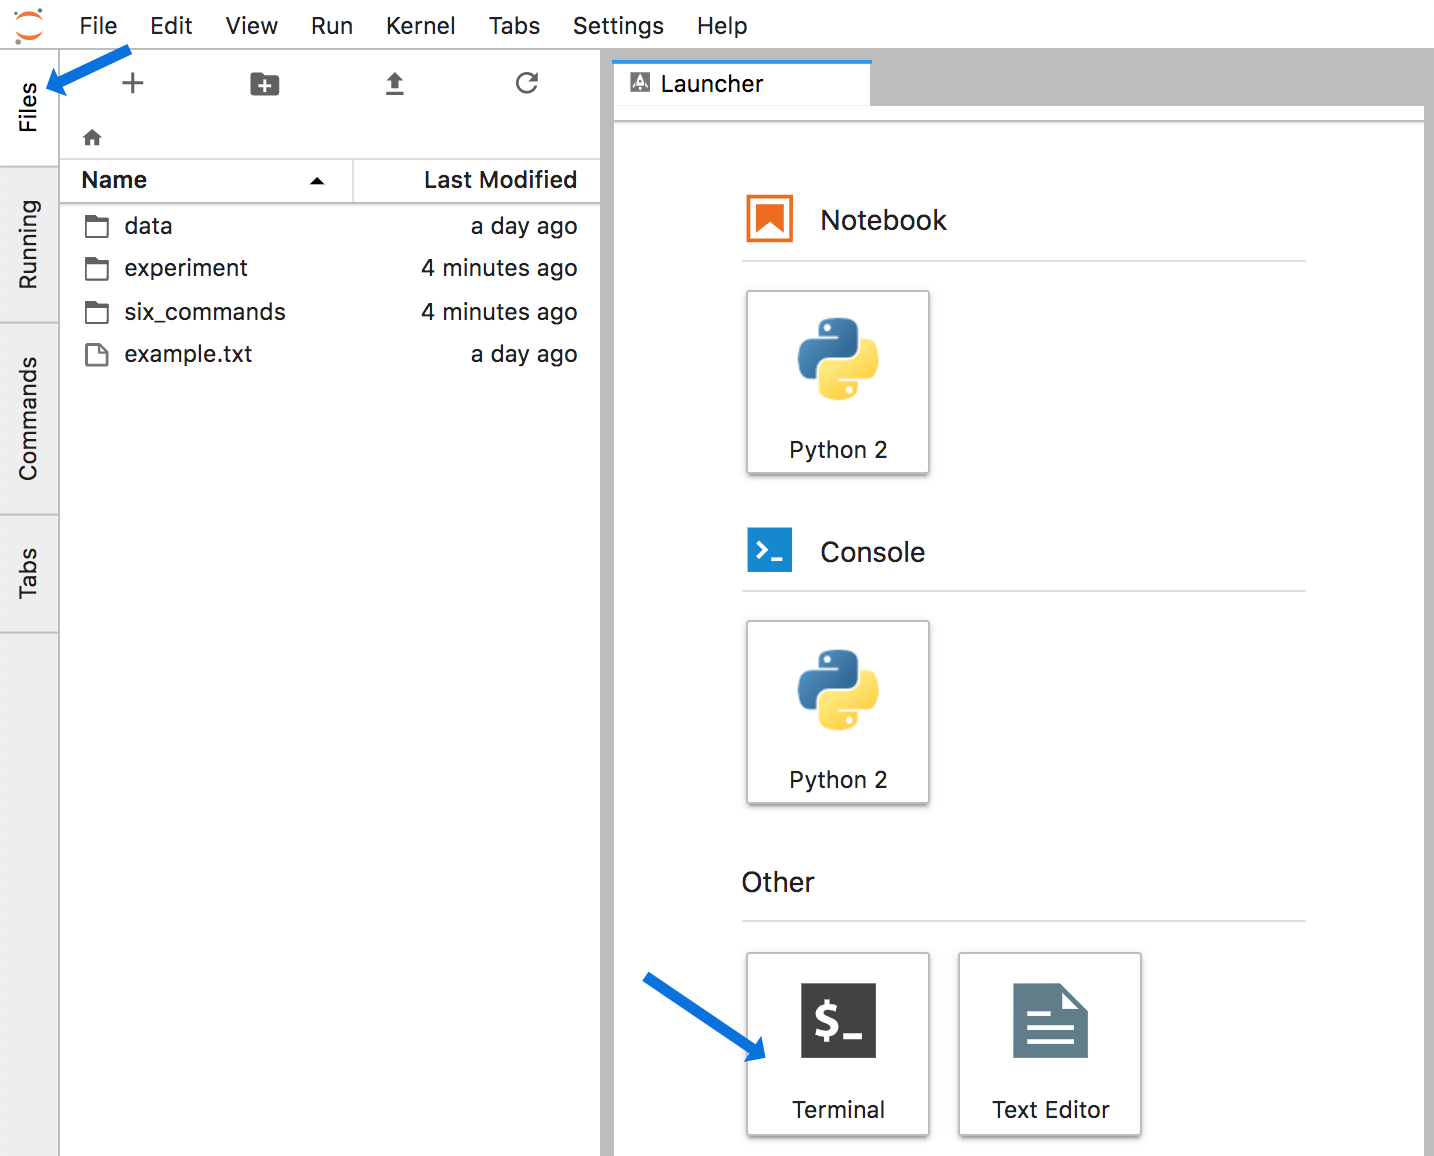
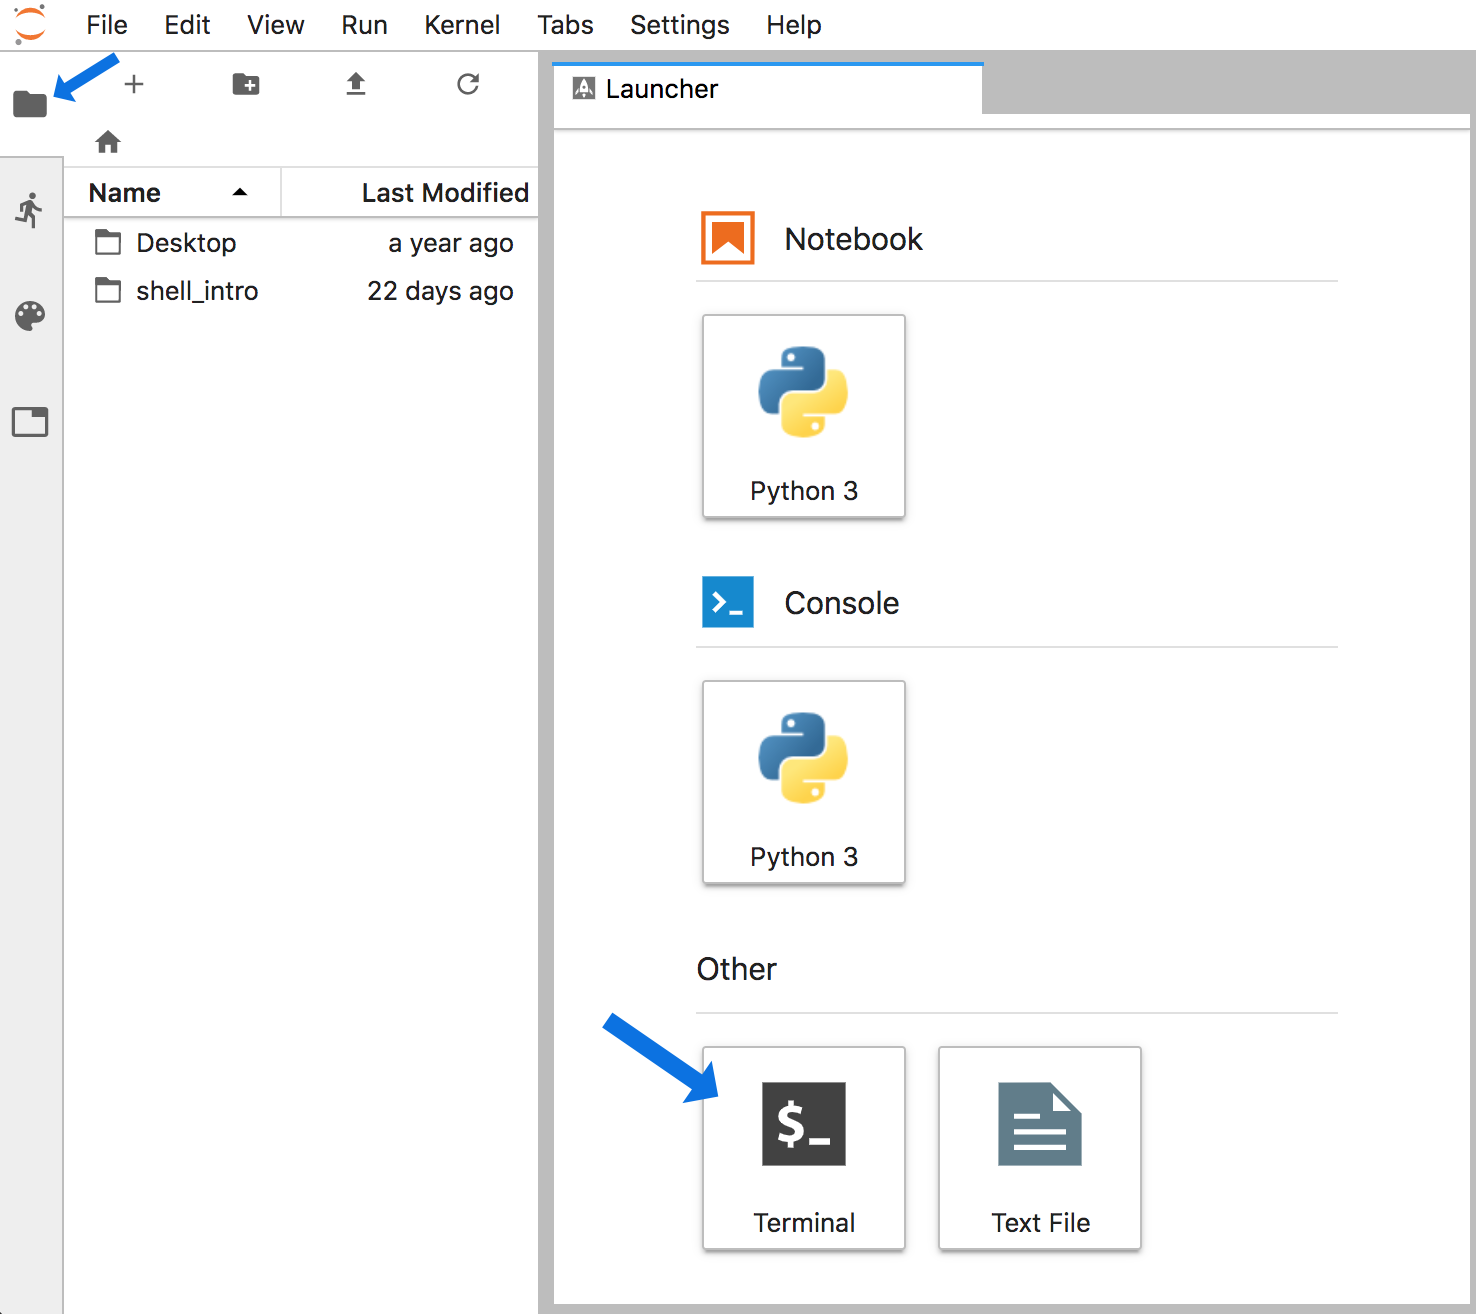
updating cloud computing lesson and adding figures

diff --git a/cloud_computing_intro.md b/cloud_computing_intro.md
@@ -10,6 +10,9 @@ Secondly the vast majority of research software are developed and released for l
 
 ## What is the Cloud?
 
+<center><img src="_static/cloud_compute.png" width="90%"></center>
+<br>
+
 The cloud is basically lots of servers (thing big big computers) stacked together in a giant, powerful infrastructure. You can lend part of this infrastructure for your computing needs. While it is not cheap, it is generally scalable and guarantees a stable environment.
 
 In research there are two approaches to lend computing time and power: either (a) you lend computing time and resources from a commercial provider or you obtain access to a research computing infrastructure. Some countries have built national infrastructures where you can apply for computing time for your research projects. Most academic institutions or departments also have their own computing resources.
@@ -24,16 +27,26 @@ In research there are two approaches to lend computing time and power: either (a
     + [Google Cloud](https://cloud.google.com/)
 
 ## Let's connect to the cloud
-![](images/cloud_compute.png)
+We all have an IP address to link into our cloud computers stored in this [spreadsheet here](https://hackmd.io/LGeRCq5xRkm3ebSQ8lHgFg?view).
 
-open jupyter notebook
-http://149.165.171.170:8888/lab
+That will open a screen where you need to enter a password. The password is **`davis.2019`**. Then a screen like this will open (minus the blue arrows):
 
-open terminal 
+<center><img src="_static/shell_tut_jupyter_initial_launch.png" width="90%"></center>
+<br>
 
+Now click the **files tab** at the top-left (that the smaller blue arrow points to above) and then click the "**Terminal**" icon at the bottom, and we'll be in our appropriate command-line environment:
 
-To install blast:
-`conda install -c  bioconda blast`
+<center><img src="_static/shell_tut_jupyter_terminal.png" width="90%"></center>
+<br>
+
+Installing blast and creating a working directory:
+
+```
+cd ~/
+conda install -y -c bioconda blast
+mkdir opening_example
+cd opening_example/
+```
 
 Note: takes 5-10 minutes
 
@@ -42,13 +55,15 @@ Note: takes 5-10 minutes
 ## Basic Local Alignment Search Tool
 
 Given one or more query sequences (usually in FASTA format), BLAST looks for matching sequence regions between them and a subject set.
-![](https://i.imgur.com/YPVewm4.png)
+
+<center><img src="_static/blast-ex.png" width="90%"></center>
+<br>
+
 A sufficiently close match between subsequences (denoted by arrows in the figure above, though matches are usually longer than illustrated here) is called a high-scoring pair (HSP), while a query sequence is said to hit a target sequence if they share one or more HSPs
 
 # Running command-line BLAST
 
-The goal of this tutorial is to run you through a demonstration of the
-command line, which you may not have seen or used much before.
+The goal of this tutorial is to run you through a demonstration of the command line, which you may not have seen or used much before.
 
 ## Running BLAST
 
@@ -79,7 +94,7 @@ Uncompress them:
 gunzip *.faa.gz
 ```
 
-and let's look at the first few sequences in the file:
+And let's look at the first few sequences in the file:
 
 ```
 head mouse.1.protein.faa 
@@ -99,13 +114,7 @@ all the output and put it into this file here."
 head -11 mouse.1.protein.faa > mm-first.fa
 ```
 
-So now, for example, you can do `cat mm-first.fa` to see the contents of
-that file (or `less mm-first.fa`).
-
-Now let's BLAST these two sequences against the entire zebrafish
-protein data set. First, we need to tell BLAST that the zebrafish
-sequences are (a) a database, and (b) a protein database.  That's done
-by calling 'makeblastdb':
+Now let's BLAST these two sequences against the entire zebrafish protein data set. First we need to create a database. That's done by calling 'makeblastdb':
 
 ```
 makeblastdb -in zebrafish.1.protein.faa -dbtype prot
@@ -138,12 +147,12 @@ less mm-first.x.zebrafish.txt
 Let's do some more sequences (this one will take a little longer to run):
 
 ```
-head -500 mouse.1.protein.faa > mm-second.fa
+head -498 mouse.1.protein.faa > mm-second.fa
 
 blastp -query mm-second.fa -db zebrafish.1.protein.faa -out mm-second.x.zebrafish.txt
 ```
 
-will compare the first 83 sequences.  You can look at the output file with:
+will compare the first 96 sequences. You can look at the output file with:
 
 ```
 less mm-second.x.zebrafish.txt
@@ -167,18 +176,18 @@ last file --
 blastp -query mm-second.fa -db zebrafish.1.protein.faa -out mm-second.x.zebrafish.tsv -outfmt 6
 ```
 
-See [this link](http://www.metagenomics.wiki/tools/blast/blastn-output-format-6) for a description of the possible BLAST output formats.
+See [this link](http://www.metagenomics.wiki/tools/blast/blastn-output-format-6) for a description of the possible BLAST output table formats.
 
-
-Run R script to visualize the blast results as below
+Now we'll run an R script to visualize the blast results:
 
 ```
 Rscript blastviz.R
 ```
 
-A pdf will be generated with the results. Double click to open the pdf 
+A pdf will be generated with the results. We can view this by clicking on the Folder icon at the left ofour screen, and then double clicking on the file at the top to open the pdf:
 
-![](images/blastviz.png)
+<center><img src="_static/blastviz.png" width="90%"></center>
+<br>
 
 Things to mention and discuss:
 

diff --git a/shell_intro/shell-getting-started-01.md b/shell_intro/shell-getting-started-01.md
@@ -2,11 +2,11 @@
 
 ## How to access the shell for now
 
-You have been given a unique IP addess, something like **`149.165.171.57`**. You need to insert your unique IP address into this link like so (don't forget the ":8888"):
 
-`http://149.165.171.170:8888/lab`
+We all have an IP address to link into our cloud computers stored in this [spreadsheet here](https://hackmd.io/LGeRCq5xRkm3ebSQ8lHgFg?view). Find your name and click the link associated with your name. 
 
-And that will open a screen where you need to enter a password. The password is **`angus`**. Then a screen like this will open (minus the blue arrows):
+
+That will open a screen where you need to enter a password. The password is **`davis.2019`**. Then a screen like this will open (minus the blue arrows):
 
 <center><img src="../_static/shell_tut_jupyter_initial_launch.png" width="90%"></center>
 <br>
